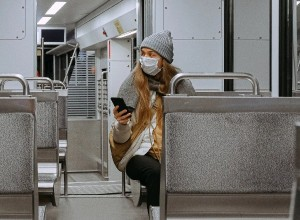
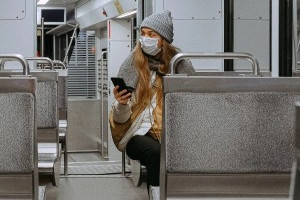
fix: improve webp conversion

diff --git a/themes/delphi/layouts/shortcodes/team.html b/themes/delphi/layouts/shortcodes/team.html
@@ -8,15 +8,20 @@
       {{ if isset . "link" }}
         <a href="{{ .link }}">
           <picture>
-            <source srcset="{{ (.img.Resize "250x250 webp").RelPermalink }}" type="image/webp" />
-            <img src="{{ (.img.Resize "250x250 jpg").RelPermalink }}" alt="{{ .name }}" width="250" height="250" />
+            <source srcset="{{ (.img.Resize "250x webp Gaussian").RelPermalink }}" type="image/webp" />
+            <img
+              src="{{ (.img.Resize "250x jpg Gaussian").RelPermalink }}"
+              alt="{{ .name }}"
+              width="250"
+              height="250"
+            />
           </picture>
         </a>
         <a href="{{ .link }}" class="team-member-name uk-link-muted">{{ .name | safeHTML }}</a>
         {{ else }}
         <picture>
-          <source srcset="{{ (.img.Resize "250x250 webp").RelPermalink }}" type="image/webp" />
-          <img src="{{ (.img.Resize "250x250 jpg").RelPermalink }}" alt="{{ .name }}" width="250" height="250" />
+          <source srcset="{{ (.img.Resize "250x webp Gaussian").RelPermalink }}" type="image/webp" />
+          <img src="{{ (.img.Resize "250x jpg Gaussian").RelPermalink }}" alt="{{ .name }}" width="250" height="250" />
         </picture>
         <div class="team-member-name">
           {{ .name | safeHTML }}

diff --git a/themes/delphi/layouts/blog/single.html b/themes/delphi/layouts/blog/single.html
@@ -16,8 +16,13 @@
       <div class="uk-margin-top uk-margin-bottom">
         {{ $img := $images.GetMatch (path.Join .Params.heroImage) }}
         <picture>
-          <source srcset="{{ ($img.Resize "1120x440 webp").RelPermalink }}" type="image/webp" />
-          <img src="{{ ($img.Resize "1120x440 jpg").RelPermalink }}" width="1120" height="440" alt="{{ .Title }}" />
+          <source srcset="{{ ($img.Resize "1120x Gaussian").RelPermalink }}" type="image/webp" />
+          <img
+            src="{{ ($img.Resize "1120x jpg Gaussian").RelPermalink }}"
+            width="1120"
+            height="440"
+            alt="{{ .Title }}"
+          />
         </picture>
       </div>
     {{ end }}

diff --git a/themes/delphi/layouts/partials/landing/latest-card.html b/themes/delphi/layouts/partials/landing/latest-card.html
@@ -1,8 +1,8 @@
 <div class="uk-card uk-card-default latest-card uk-card-small uk-flex uk-flex-column">
   <div class="uk-card-media-top">
     <picture>
-      <source srcset="{{ (.img.Resize "300x200 webp").RelPermalink }}" type="image/webp" />
-      <img src="{{ (.img.Resize "300x200 jpg").RelPermalink }}" width="300" height="200" alt="{{ .title }}" />
+      <source srcset="{{ (.img.Resize "300x webp q85 Gaussian").RelPermalink }}" type="image/webp" />
+      <img src="{{ (.img.Resize "300x jpg q85 Gaussian").RelPermalink }}" width="300" height="200" alt="{{ .title }}" />
     </picture>
   </div>
   <div class="uk-card-body">

diff --git a/themes/delphi/layouts/partials/landing/teampic.html b/themes/delphi/layouts/partials/landing/teampic.html
@@ -2,8 +2,8 @@
   {{ $team := where (partial "get-persons.html" .) ".team" "intersect" (slice .team) }}
   {{ range first 8 $team }}
     <picture>
-      <source srcset="{{ (.img.Resize "150x150 webp").RelPermalink }}" type="image/webp" />
-      <img src="{{ (.img.Resize "150x150 jpg").RelPermalink }}" alt="{{ .name }}" width="150" height="150" />
+      <source srcset="{{ (.img.Resize "150x webp Gaussian").RelPermalink }}" type="image/webp" />
+      <img src="{{ (.img.Resize "150x jpg Gaussian").RelPermalink }}" alt="{{ .name }}" width="150" height="150" />
     </picture>
   {{ end }}
 </div>

diff --git a/themes/delphi/layouts/partials/blog/card.html b/themes/delphi/layouts/partials/blog/card.html
@@ -3,8 +3,8 @@
     <a href="{{ .RelPermalink }}">
       {{ $img := ($.GetPage "/blog/images").Resources.GetMatch .Params.heroImageThumb }}
       <picture>
-        <source srcset="{{ ($img.Resize "300x200 webp").RelPermalink }}" type="image/webp" />
-        <img src="{{ ($img.Resize "300x200 jpg").RelPermalink }}" width="300" height="200" alt="{{ .Title }}" />
+        <source srcset="{{ ($img.Resize "300x webp q85 Gaussian").RelPermalink }}" type="image/webp" />
+        <img src="{{ ($img).RelPermalink }}" width="300" height="200" alt="{{ .Title }}" />
       </picture>
     </a>
   </div>

diff --git a/themes/delphi/layouts/blog/list.html b/themes/delphi/layouts/blog/list.html
@@ -10,7 +10,7 @@
         <div class="card-grid-item uk-card uk-card-default uk-card-small">
           <div class="card-grid-item-date">{{ .Date.Format "Jan _2" }}</div>
           <picture>
-            <source srcset="{{ ($img.Resize "300x200 webp").RelPermalink }}" type="image/webp" />
+            <source srcset="{{ ($img.Resize "300x webp q85 Gaussian").RelPermalink }}" type="image/webp" />
             <img class="card-grid-item-img" src="{{ $img.RelPermalink }}" width="300" height="200" alt="{{ .Title }}" />
           </picture>
           <div class="uk-flex uk-flex-column">
